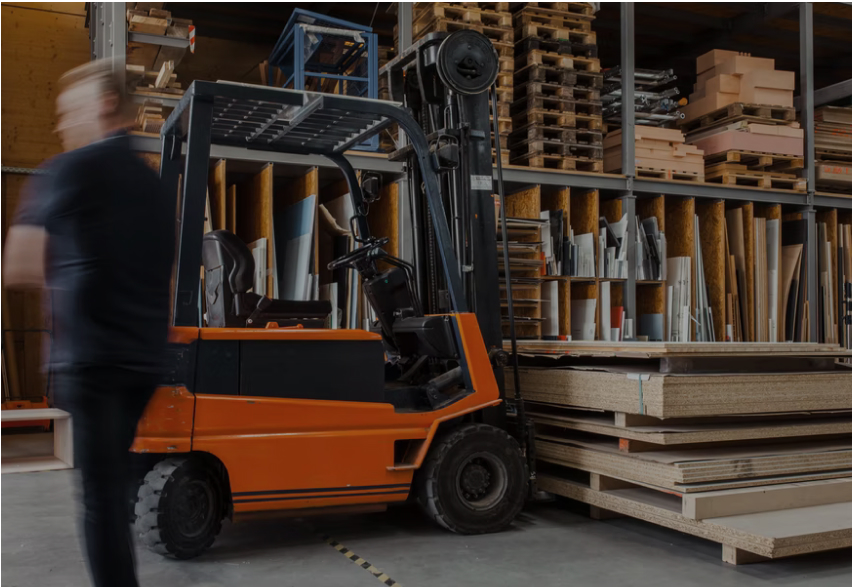
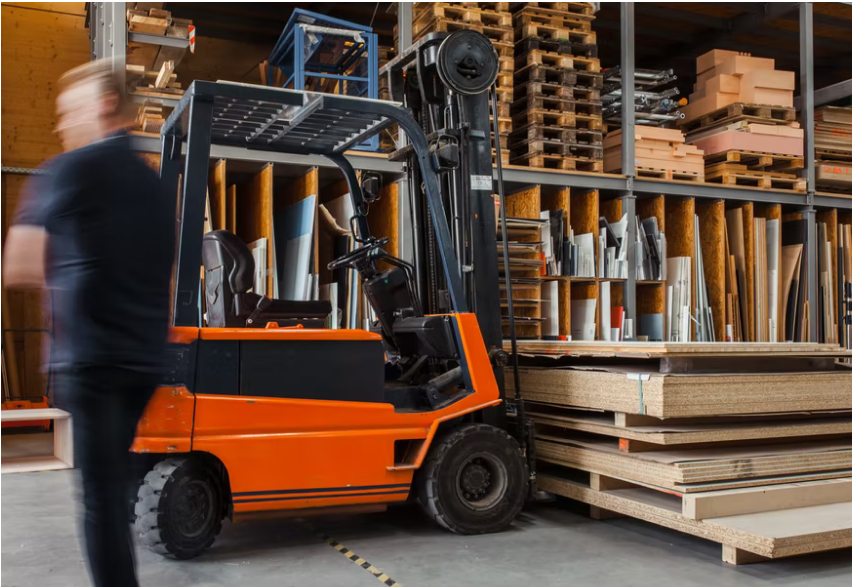
zidex main container

diff --git a/dev/sass/layout/_small-pages.scss b/dev/sass/layout/_small-pages.scss
@@ -201,6 +201,8 @@
 }
 .card-img-container {
   position: relative;
+  
+  
   span {
     pointer-events: none;
     position: absolute;
@@ -212,6 +214,7 @@
     bottom: 1.5rem;
     font-size: 1.2rem;
     font-weight: 500;
+    z-index: 2;
   }
   .card-img__link{
     position: absolute;
@@ -525,12 +528,26 @@
       }
     }
   }
+  .card-img-container{
+    &::after{
+      content: "";
+      position: absolute;
+      width: 100%;
+      height: 100%;
+      left: 0;
+      top: 0;
+      background: linear-gradient(0deg, rgba(0, 0, 0, 0.22), rgba(0, 0, 0, 0.22)), linear-gradient(0deg, rgba(50, 50, 50, 0.15), rgba(50, 50, 50, 0.15));
+      z-index: 1;
+    }
+  }
+  
   .img-decor {
     position: absolute;
     width: 6rem;
     height: 6rem;
     left: 3rem;
     bottom: -3rem;
+    z-index: 3;
   }
 }
 .shipping-post {

diff --git a/dev/sass/layout/_logistic.scss b/dev/sass/layout/_logistic.scss
@@ -62,9 +62,13 @@
 .pageService {
   .logistic {
     .splide__head-text {
+      display: flex;
+      min-height: 4.2rem;
       font-size: 1.4rem;
+      align-items: center;
       @media (min-width: $large_desktop) {
         font-size: 2.4rem;
+        min-height: 7.2rem;
       }
     }
   }

diff --git a/dev/sass/layout/_header.scss b/dev/sass/layout/_header.scss
@@ -3,6 +3,7 @@ header {
     position: relative;
     background-color: #27201c;
     height: 70px;
+   // z-index: 10;
     @media (min-width: $media_tablet) {
       height: 90px;
     }

diff --git a/dev/sass/base/_base.scss b/dev/sass/base/_base.scss
@@ -26,6 +26,8 @@ body {
 }
 main {
   background-color: #fff;
+  position: relative;
+  z-index: 0;
 }
 a {
   color: #ffffff;
